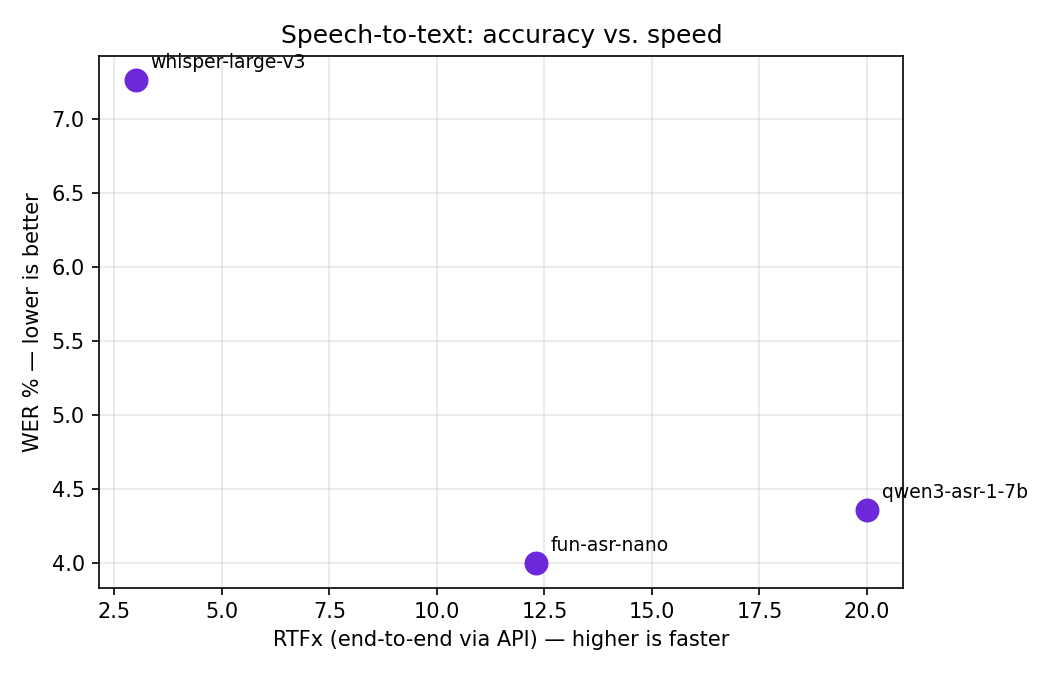
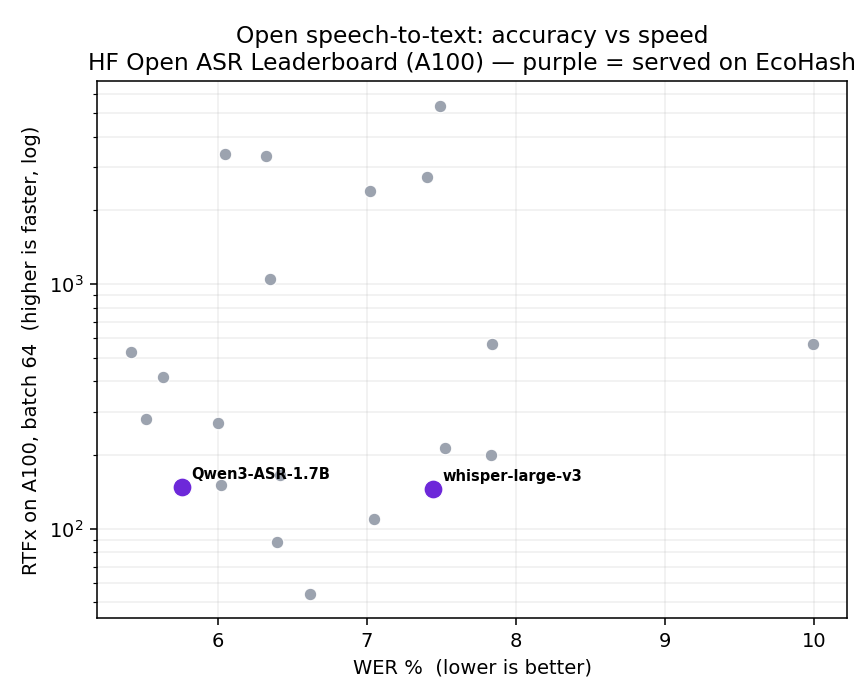
benchmarks: add open-model landscape (Open ASR Leaderboard) + charts
Expand the speech benchmark from EcoHash-only into a full open-model landscape
(STT from the HF Open ASR Leaderboard, TTS from popular open models), with the
models served on EcoHash flagged, plus our own end-to-end measurements kept
separate. Add WER-vs-RTFx and TTFA charts (plot.py) and badges.

diff --git a/speech/plot.py b/speech/plot.py
@@ -1,4 +1,4 @@
-"""Generate benchmark charts (PNG) from the speech CSVs. Run: python plot.py"""
+"""Regenerate the benchmark charts (assets/*.png) from the CSV data."""
 
 import csv
 import os
@@ -6,11 +6,12 @@ import os
 import matplotlib
 
 matplotlib.use("Agg")
-import matplotlib.pyplot as plt
+import matplotlib.pyplot as plt  # noqa: E402
 
 HERE = os.path.dirname(os.path.abspath(__file__))
 ASSETS = os.path.join(os.path.dirname(HERE), "assets")
 PURPLE = "#6D28D9"
+GREY = "#9CA3AF"
 
 
 def read_csv(name):
@@ -18,31 +19,38 @@ def read_csv(name):
         return list(csv.DictReader(f))
 
 
-# STT — accuracy (WER) vs speed (RTFx, end-to-end)
-stt = read_csv("stt.csv")
-fig, ax = plt.subplots(figsize=(7, 4.5))
-for row in stt:
-    x, y = float(row["rtfx_median_end_to_end"]), float(row["wer_pct"])
-    ax.scatter(x, y, s=110, color=PURPLE, zorder=3)
-    ax.annotate(row["model"], (x, y), xytext=(7, 6), textcoords="offset points", fontsize=9)
-ax.set_xlabel("RTFx (end-to-end via API) — higher is faster")
-ax.set_ylabel("WER % — lower is better")
-ax.set_title("Speech-to-text: accuracy vs. speed")
-ax.grid(True, alpha=0.3)
+# STT: WER vs RTFx (Open ASR Leaderboard, A100), EcoHash models highlighted.
+fig, ax = plt.subplots(figsize=(6.2, 5))
+for r in read_csv("stt.csv"):
+    try:
+        wer, rtfx = float(r["wer_pct"]), float(r["rtfx_a100_bs64"])
+    except ValueError:
+        continue
+    eco = r["on_ecohash"].strip().lower() == "yes"
+    ax.scatter(wer, rtfx, s=95 if eco else 42, c=PURPLE if eco else GREY,
+               edgecolors="white", linewidths=0.6, zorder=3 if eco else 2)
+    if eco:
+        ax.annotate(r["model"].split("/")[-1], (wer, rtfx), fontsize=7.5,
+                    fontweight="bold", xytext=(5, 4), textcoords="offset points")
+ax.set_yscale("log")
+ax.set_xlabel("WER %  (lower is better)")
+ax.set_ylabel("RTFx on A100, batch 64  (higher is faster, log)")
+ax.set_title("Open speech-to-text: accuracy vs speed\nHF Open ASR Leaderboard (A100) — purple = served on EcoHash")
+ax.grid(True, which="both", alpha=0.2)
 fig.tight_layout()
-fig.savefig(os.path.join(ASSETS, "stt-wer-vs-rtfx.png"), dpi=150)
+fig.savefig(os.path.join(ASSETS, "stt-wer-vs-rtfx.png"), dpi=140)
 
-# TTS — time to first audio (end-to-end)
-tts = read_csv("tts.csv")
-models = [r["model"] for r in tts]
-ttfa = [float(r["ttfa_ms_end_to_end"]) for r in tts]
-fig, ax = plt.subplots(figsize=(7, 4.5))
-bars = ax.bar(models, ttfa, color=PURPLE, width=0.5, zorder=3)
-ax.bar_label(bars, fmt="%.0f ms", padding=3, fontsize=9)
-ax.set_ylabel("TTFA (ms, end-to-end via API) — lower is better")
-ax.set_title("Text-to-speech: time to first audio")
-ax.grid(True, axis="y", alpha=0.3)
+# TTS: time to first audio (mixed measured/claimed), EcoHash models highlighted.
+pts = [(r["model"], float(r["ttfa_ms"]), r["on_ecohash"].strip().lower() == "yes")
+       for r in read_csv("tts.csv") if r.get("ttfa_ms")]
+pts.sort(key=lambda x: x[1], reverse=True)
+fig, ax = plt.subplots(figsize=(6.2, 5))
+ax.barh([p[0] for p in pts], [p[1] for p in pts],
+        color=[PURPLE if p[2] else GREY for p in pts])
+ax.set_xlabel("TTFA ms  (lower is better; mixed measured / vendor-claimed)")
+ax.set_title("Open text-to-speech: time to first audio\npurple = served on EcoHash")
+ax.grid(True, axis="x", alpha=0.2)
 fig.tight_layout()
-fig.savefig(os.path.join(ASSETS, "tts-ttfa.png"), dpi=150)
+fig.savefig(os.path.join(ASSETS, "tts-ttfa.png"), dpi=140)
 
-print("wrote charts to", ASSETS)
+print("charts written to", os.path.normpath(ASSETS))

diff --git a/README.md b/README.md
@@ -14,7 +14,7 @@ Open, reproducible performance benchmarks for the open models served on EcoHash 
 
 <p align="center">
   <img src="https://img.shields.io/badge/license-MIT-blue" alt="MIT">
-  <img src="https://img.shields.io/badge/speech%20models-5-6D28D9" alt="5 speech models">
+  <img src="https://img.shields.io/badge/open%20speech%20models-29-6D28D9" alt="29 open speech models">
   <img src="https://img.shields.io/badge/measured-2026--06--23-lightgrey" alt="measured 2026-06-23">
 </p>
 
@@ -25,43 +25,98 @@ Open, reproducible performance benchmarks for the open models served on EcoHash 
 
 ## Methodology
 
-All numbers are measured **client-side, end-to-end through the EcoHash API** (`https://api.ecohash.com/v1`), so they include network and queueing — they reflect what a caller actually experiences, not pure-GPU throughput. Endpoints ran on **NVIDIA RTX PRO 6000** at measurement time.
+Two kinds of numbers, kept separate on purpose:
 
-- **STT** — word error rate (WER) with [jiwer](https://github.com/jitsi/jiwer) on LibriSpeech (clean, English) using simple text normalization; **RTFx** = audio duration ÷ latency (higher is faster).
-- **TTS** — **TTFA** = time to first audio byte (streaming request); **RTF** = total time ÷ audio duration (RTF < 1 is faster than real time).
-- Warmup runs + median across samples to suppress cold starts.
-- Measured **2026-06-23** — STT: 50 clips per model; TTS: 8 sentences per model.
+**1. Open-model landscape (reference).** WER and RTFx in the STT landscape come from the [HF Open ASR Leaderboard](https://huggingface.co/spaces/hf-audio/open_asr_leaderboard) — all models run on a single **A100-80GB, batch 64**, and WER is the English 8-dataset average. That RTFx is an **A100** figure, not RTX PRO 6000 and not our measurement. The TTS landscape lists popular open models by HF downloads; TTFA is **measured where available, otherwise vendor/paper-claimed** (noted per row).
 
-> **Status / caveats.** RTFx is an **end-to-end** figure (includes network), not pure-GPU throughput; a GPU-only throughput rerun with more models is planned. WER uses a simple normalizer for cross-model comparison and is **not directly comparable** to official leaderboards.
+**2. Measured on EcoHash (end-to-end).** The "measured on EcoHash" tables are our own numbers, measured **client-side end-to-end through the API** (`https://api.ecohash.com/v1`) on **NVIDIA RTX PRO 6000** endpoints, so they include network + queueing. STT: WER via [jiwer](https://github.com/jitsi/jiwer) on LibriSpeech (clean, English, simple normalization), RTFx = audio ÷ latency. TTS: TTFA = time to first audio byte, RTF = total time ÷ audio duration. Warmup + median across samples. Measured **2026-06-23** (STT: 50 clips/model; TTS: 8 sentences/model).
 
-## Speech — transcription (STT)
+> **Caveats.** Our end-to-end RTFx/TTFA are **not comparable** to the A100 leaderboard (short clips make network + overhead dominant, so RTFx reads low); a pure-GPU rerun with more models is planned. WER on LibriSpeech-clean is lower than the leaderboard's 8-dataset average and uses a simple normalizer — for cross-model comparison only.
 
-| Model | WER % ↓ | RTFx (end-to-end) ↑ |
+## Speech-to-text — open-model landscape
+
+Source: HF Open ASR Leaderboard (A100, batch 64; WER = English 8-dataset average). **✅ = served on EcoHash.**
+
+| # | Model | Params (B) | WER % ↓ | RTFx (A100) ↑ | On EcoHash |
+|---|---|---|---|---|---|
+| 1 | CohereLabs/cohere-transcribe-03-2026 | 2 | 5.42 | 525 | |
+| 3 | ibm-granite/granite-4.0-1b-speech | 2 | 5.52 | 280 | |
+| 4 | nvidia/canary-qwen-2.5b | 2.5 | 5.63 | 418 | |
+| 5 | ibm-granite/granite-speech-3.3-8b | 9 | 5.74 | 145 | |
+| 6 | **Qwen/Qwen3-ASR-1.7B** | 1.7 | 5.76 | 148 | ✅ |
+| 8 | ibm-granite/granite-speech-3.3-2b | 3 | 6.00 | 271 | |
+| 9 | microsoft/Phi-4-multimodal-instruct | 6 | 6.02 | 151 | |
+| 10 | nvidia/parakeet-tdt-0.6b-v2 | 0.6 | 6.05 | 3386 | |
+| 13 | nvidia/parakeet-tdt-0.6b-v3 | 0.6 | 6.32 | 3333 | |
+| 14 | nvidia/canary-1b-flash | 1 | 6.35 | 1046 | |
+| 15 | kyutai/stt-2.6b-en | 2.6 | 6.40 | 88 | |
+| 17 | Qwen/Qwen3-ASR-0.6B | 0.6 | 6.42 | 166 | |
+| 19 | mistralai/Voxtral-Small-24B-2507 | 24 | 6.62 | 54 | |
+| 26 | nvidia/parakeet-tdt-1.1b | 1.1 | 7.02 | 2391 | |
+| 28 | mistralai/Voxtral-Mini-3B-2507 | 5 | 7.05 | 110 | |
+| 35 | nvidia/parakeet-ctc-1.1b | 1.1 | 7.40 | 2729 | |
+| 38 | **openai/whisper-large-v3** | 2 | 7.44 | 146 | ✅ |
+| 39 | nvidia/parakeet-tdt_ctc-110m | 0.11 | 7.49 | 5345 | |
+| 41 | distil-whisper/distil-large-v3 | 0.8 | 7.52 | 214 | |
+| 46 | openai/whisper-large-v3-turbo | 0.8 | 7.83 | 200 | |
+| 48 | usefulsensors/moonshine-streaming-small | 0.12 | 7.84 | 566 | |
+| 66 | usefulsensors/moonshine-base | 0.06 | 9.99 | 566 | |
+
+Full data (prices, notes): [speech/stt.csv](speech/stt.csv).
+
+## Speech-to-text — measured on EcoHash (end-to-end via API)
+
+| Model | WER % (LibriSpeech clean, en) | RTFx (end-to-end) |
 |---|---|---|
 | `whisper-large-v3` | 7.26 | 3.0 |
 | `qwen3-asr-1-7b` | 4.36 | 20.0 |
 | `fun-asr-nano` | 4.00 | 12.3 |
 
-Full data: [speech/stt.csv](speech/stt.csv).
+Data: [speech/stt-ecohash.csv](speech/stt-ecohash.csv).
 
-## Speech — synthesis (TTS)
+## Text-to-speech — open-model landscape
 
-| Model | TTFA (end-to-end) ↓ | RTF ↓ |
-|---|---|---|
-| `kokoro-82m` | 325 ms | 0.077 |
-| `qwen3-tts` | 3538 ms | 0.593 |
+Popular open TTS models by HF downloads. There is no unified TTS speed leaderboard, so TTFA is measured where available, otherwise vendor-claimed. **✅ = served on EcoHash.**
 
-Full data: [speech/tts.csv](speech/tts.csv).
+| Model | Provider | Params | TTFA | Streaming | On EcoHash |
+|---|---|---|---|---|---|
+| **Kokoro-82M** | hexgrad | 82M | ~325 ms (measured) | no | ✅ |
+| Chatterbox-0.5B | Resemble | 0.5B | ~472 ms (measured) | yes | |
+| MeloTTS | MyShell | ~52M | non-streaming | no | |
+| Orpheus-3B | Canopy | 3B | ~200 ms (claimed) | yes | |
+| CosyVoice2-0.5B | Alibaba | 0.5B | ~150 ms (claimed) | yes | |
+| **Qwen3-TTS** | Alibaba | 1.7B/0.6B | 97 ms (claimed) | yes | ✅ |
+| Parler-TTS-large | Hugging Face | 2.2B | <500 ms (claimed) | yes | |
+
+Full data (prices, notes): [speech/tts.csv](speech/tts.csv).
+
+## Text-to-speech — measured on EcoHash (end-to-end via API)
+
+| Model | TTFA (end-to-end) | RTF | Streaming |
+|---|---|---|---|
+| `kokoro-82m` | 325 ms | 0.077 | no |
+| `qwen3-tts` | 3538 ms | 0.593 | no |
+
+Data: [speech/tts-ecohash.csv](speech/tts-ecohash.csv).
 
 ## Reproduce
 
-```bash
-pip install openai jiwer datasets soundfile numpy requests matplotlib
-export ECOHASH_API_KEY=eco_...   # create one at console.ecohash.com
+Our "measured on EcoHash" numbers:
 
-python speech/benchmark.py --stt-n 50 --tts-n 8   # measure
-python speech/plot.py                             # regenerate the charts
+```bash
+pip install openai jiwer datasets soundfile numpy requests
+export ECOHASH_API_KEY=eco_...   # create one at console.ecohash.com
+python speech/benchmark.py --stt-n 50 --tts-n 8
 ```
+
+The charts:
+
+```bash
+pip install matplotlib
+python speech/plot.py
+```
+
+Landscape numbers are sourced from the [HF Open ASR Leaderboard](https://huggingface.co/spaces/hf-audio/open_asr_leaderboard).
 
 ## License
 